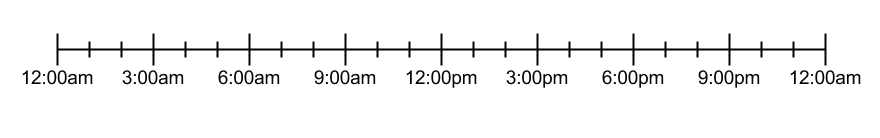
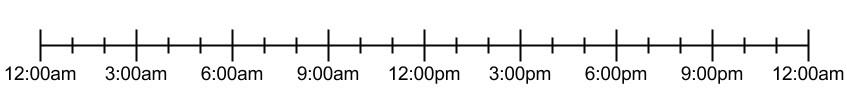
Fixed some bugs with trashcan

Changed region(s): [[0.0, 0.25, 1.0, 0.7778]]

diff --git a/js/timeline.js b/js/timeline.js
@@ -1,15 +1,69 @@
+var symbols = ["fun", "bath", "medicine", "walk", "feed"];
+var IMG_WIDTH = 80;
+var IMG_SPACING = 30;
+var IMG_MARGIN = 20;
+var dragging = false;
+
+function createNote(x, y) {
+    var note = document.createElement("div");
+    note.setAttribute("id", "note");
+    note.style.left = x + "px";
+    note.style.top = y + "px";
+    var text = document.createElement("textarea");
+    text.setAttribute("rows", "4");
+    text.setAttribute("cols", "30");
+    text.setAttribute("placeholder", "Details...");
+    $("#timeline").append(note);
+    $("#note").append(text);
+}
+
+function staticMouseUp() {
+    dragging = false;
+    var offset = symbols.indexOf(this.id);
+    var canvas = document.getElementById("timelineCanvas");
+    canvas.width = canvas.width;
+    console.log(this.offsetLeft);
+    if(!(( + this.offsetLeft + 0.5*IMG_WIDTH > $("#trashcan").position().left) && (this.offsetTop < $("#trashcan").position().top + 0.5*IMG_WIDTH))) {
+        var img = document.createElement("img");
+        img.src = this.src;
+        img.style.height = IMG_WIDTH / 2 + "px";
+        img.setAttribute("class", "staticIcon");
+        img.style.left = this.offsetLeft + IMG_WIDTH / 4 + canvas.offsetLeft + "px";
+        img.style.top = 315 + "px";
+        $("#timeline").append(img);
+        createNote(this.offsetLeft + IMG_WIDTH / 2, 345);
+        $(".staticIcon").draggable({containment: 'parent'});
+        $(".staticIcon").mouseup(staticMouseUp);
+        $(".staticIcon").mousedown(staticMouseDown);
+        $(".staticIcon").mousemove(staticMouseMove);
+    }
+    this.remove();
+}
+
+function staticMouseDown() {
+    $("#note").remove();
+    dragging = true;
+    this.style.height = IMG_WIDTH + "px";
+}
+
+function staticMouseMove() {
+    if(dragging) {
+        var canvas = document.getElementById("timelineCanvas");
+        var ctx = canvas.getContext("2d");
+        canvas.width = canvas.width;
+        ctx.moveTo(this.offsetLeft + canvas.offsetLeft + IMG_WIDTH/2, this.offsetTop + IMG_WIDTH/2);
+        ctx.lineTo(this.offsetLeft + canvas.offsetLeft + IMG_WIDTH/2, 335);
+        ctx.stroke();
+    }
+}
+
 function initialize() {
-    var symbols = ["play", "bath", "medicine", "walk", "feed"];
-    var IMG_WIDTH = 80;
-    var IMG_SPACING = 30;
-    var IMG_MARGIN = 20;
-    var dragging = false;
 
     for (var i=0; i<symbols.length; i++) {
         var icon = symbols[i];
         var offset = 0;
         var img = document.createElement("img");
-        img.src = "img/play-icon.jpg";
+        img.src = "img/" + icon + "-icon.jpg";
         img.setAttribute("id", icon);
         img.setAttribute("class", "icon");
         img.style.height = IMG_WIDTH + "px";
@@ -19,34 +73,45 @@ function initialize() {
         $("#timeline").append(img);
         $("#" + icon).draggable({containment: 'parent'});
 
-        var cb = function(){alert(i);};
-
-        $("#" + icon).mouseup(function() {
+        var onMouseup = function() {
             dragging = false;
             this.style.zIndex = "1";
             var offset = symbols.indexOf(this.id);
             var canvas = document.getElementById("timelineCanvas");
             canvas.width = canvas.width;
 
-            var img = document.createElement("img");
-            img.src = this.src;
-            img.style.height = IMG_WIDTH / 2 + "px";
-            img.setAttribute("class", "staticIcon");
-            img.style.left = this.offsetLeft + canvas.offsetLeft + "px";
-            img.style.top = 290 + "px";
-            $("#timeline").append(img);
+            if(!((this.offsetLeft + 0.5*IMG_WIDTH > $("#trashcan").position().left) && (this.offsetTop < $("#trashcan").position().top + 0.5*IMG_WIDTH))) {
+                var img = document.createElement("img");
+                img.src = this.src;
+                img.style.height = IMG_WIDTH / 2 + "px";
+                img.setAttribute("class", "staticIcon");
+                img.style.left = this.offsetLeft + IMG_WIDTH / 4 + canvas.offsetLeft + "px";
+                img.style.top = 315 + "px";
+                $("#timeline").append(img);
+                createNote(this.offsetLeft + IMG_WIDTH / 2, 345);
+                $(".staticIcon").draggable({containment: 'parent'});
+                $(".staticIcon").mouseup(staticMouseUp);
+                $(".staticIcon").mousedown(staticMouseDown);
+                $(".staticIcon").mousemove(staticMouseMove);
+            }
+
 
             this.style.top = IMG_MARGIN + "px";
             this.style.left = IMG_MARGIN + offset*(IMG_WIDTH + IMG_SPACING) + "px";
 
-        });
+        }
 
-        $("#" + icon).mousedown(function() {
+        $("#" + icon).mouseup(onMouseup);
+
+
+        var onMousedown = function() {
             dragging = true;
-            this.style.zIndex = "2";
+            this.style.zIndex = "12";
             var canvas = document.getElementById("timelineCanvas");
             var ctx = canvas.getContext("2d");
-        });
+            $("#note").remove();
+        }
+        $("#" + icon).mousedown(onMousedown);
 
         $("#" + icon).mousemove(function(e) {
             if(dragging) {
@@ -54,13 +119,13 @@ function initialize() {
                 var ctx = canvas.getContext("2d");
                 canvas.width = canvas.width;
                 ctx.moveTo(this.offsetLeft + canvas.offsetLeft + IMG_WIDTH/2, this.offsetTop + IMG_WIDTH/2);
-                ctx.lineTo(this.offsetLeft + canvas.offsetLeft + IMG_WIDTH/2, 310);
+                ctx.lineTo(this.offsetLeft + canvas.offsetLeft + IMG_WIDTH/2, 335);
                 ctx.stroke();
             }
         });
 
         var staticImg = document.createElement("img");
-        staticImg.src = "img/play-icon.jpg";
+        staticImg.src = "img/" + icon + "-icon.jpg";
         staticImg.setAttribute("class", "icon");
         staticImg.style.height = IMG_WIDTH + "px";
         staticImg.style.left = IMG_MARGIN + i*(IMG_WIDTH + IMG_SPACING) + "px";
@@ -68,9 +133,22 @@ function initialize() {
         $("#timeline").append(staticImg);
 
     }
+
+    // Create trashcan
+    var trashcan = document.createElement("img");
+    trashcan.src = "img/trashcan.png";
+    trashcan.style.height = IMG_WIDTH + "px";
+    trashcan.setAttribute("id", "trashcan");
+    trashcan.style.right = IMG_MARGIN + "px";
+    trashcan.style.top = IMG_MARGIN + "px";
+    $("#timeline").append(trashcan);
+
 }
+
 
 $(document).ready(function() {
     initialize();
-
+    $("#timelineCanvas").click(function() {
+        $("#note").remove();
+    });
 });

diff --git a/css/timeline.css b/css/timeline.css
@@ -1,6 +1,6 @@
 #timeline {
-    background-color: #eeddff;
-    width: 900px;
+    background-color: #cfddfc;
+    width: 852px;
     height: 400px;
     position: relative;
     left: 60px;
@@ -15,11 +15,22 @@
     position: absolute;
     z-index: 10;
     bottom: 2px;
+    left: -2px;
+}
+
+#trashcan {
+    position: absolute;
+    opacity: 0.4;
+    border-radius: 10px;
+}
+#trashcan:hover {
+    opacity: 1.0;
 }
 
 .staticIcon {
     position: absolute;
     z-index: 11;
+    border-radius: 5px;
 }
 
 .icon {
@@ -30,4 +41,9 @@
 
 .icon:hover {
     opacity:1.0;
+}
+
+#note {
+    position: absolute;
+    z-index: 20;
 }

diff --git a/draggable.html b/draggable.html
@@ -7,7 +7,7 @@
     </head>
     <body>
 
-        <div id="timeline"><canvas id="timelineCanvas" height="400" width="900"></canvas><img id="timelineImage" src="img/timeline.png" align="middle"/></div>
+        <div id="timeline"><canvas id="timelineCanvas" height="400" width="852"></canvas><img id="timelineImage" src="img/timeline.png" align="middle"/></div>
 
 
 
